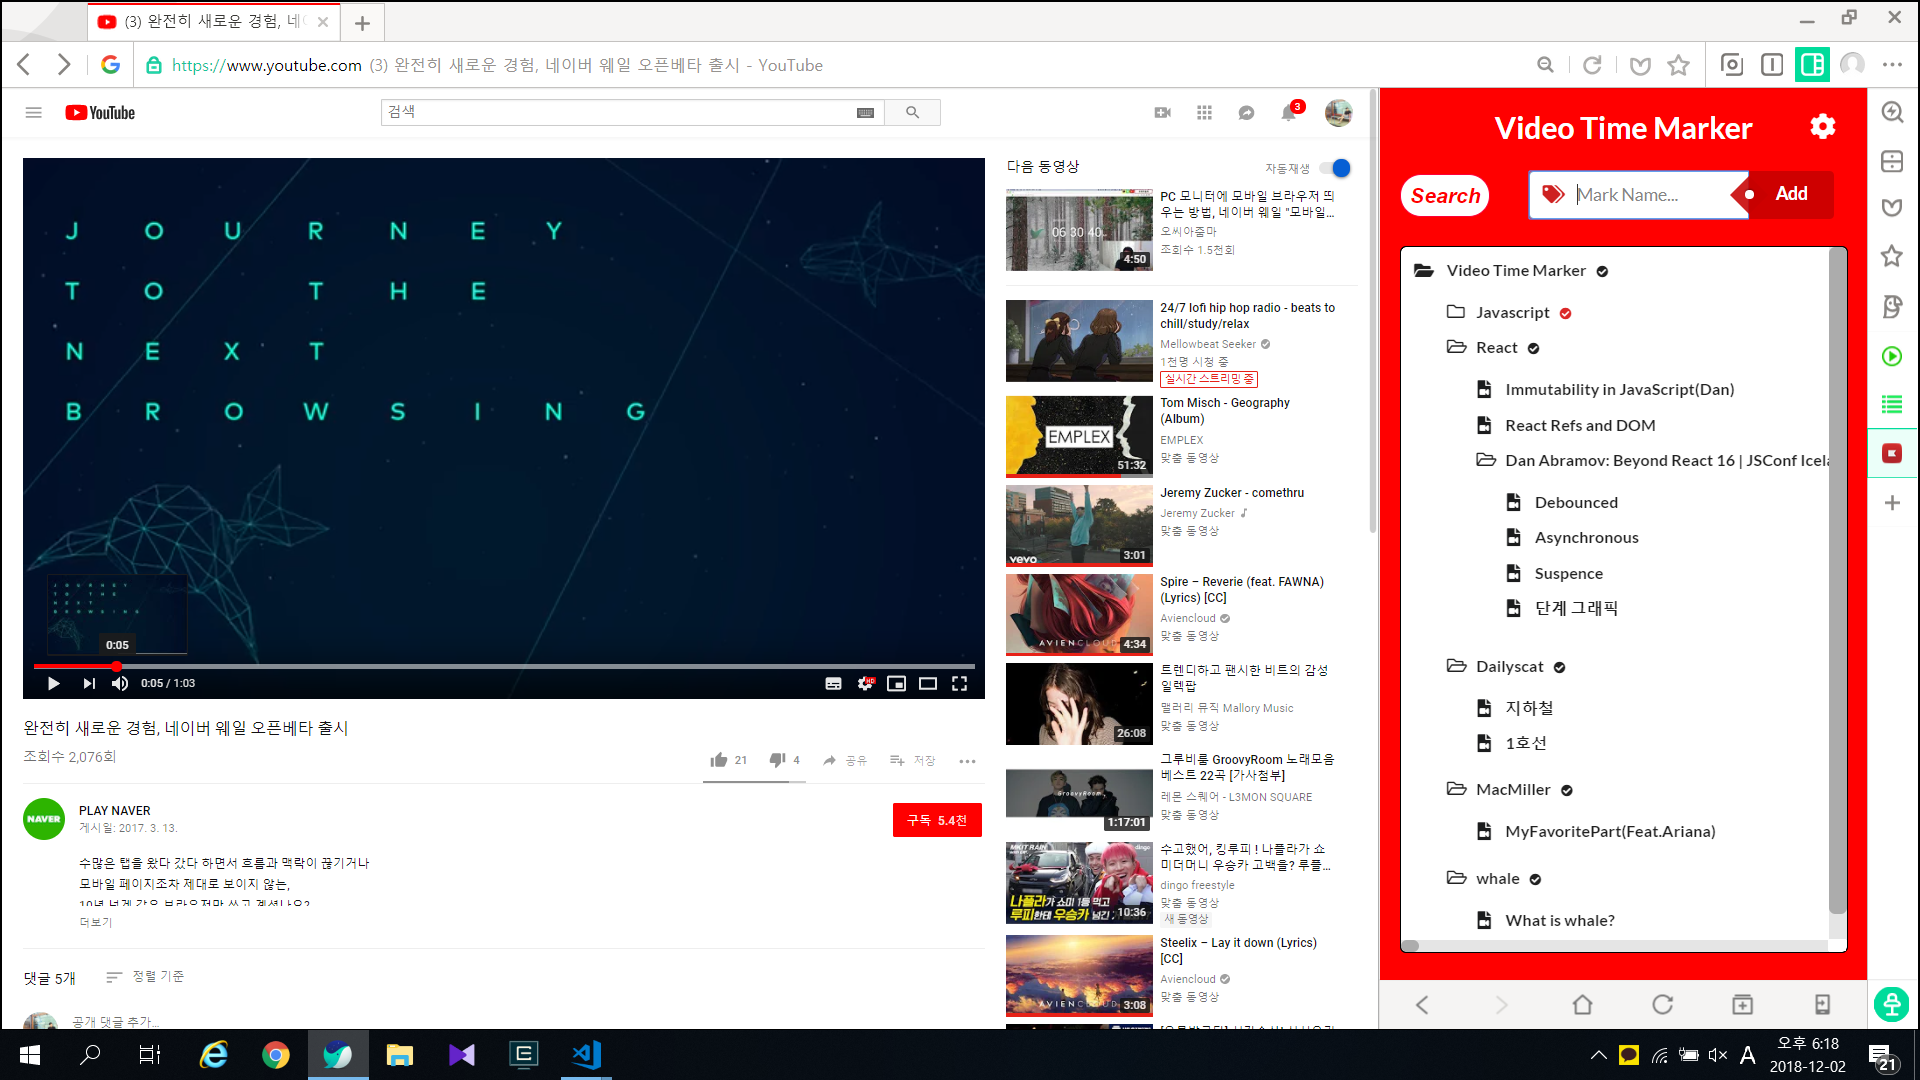
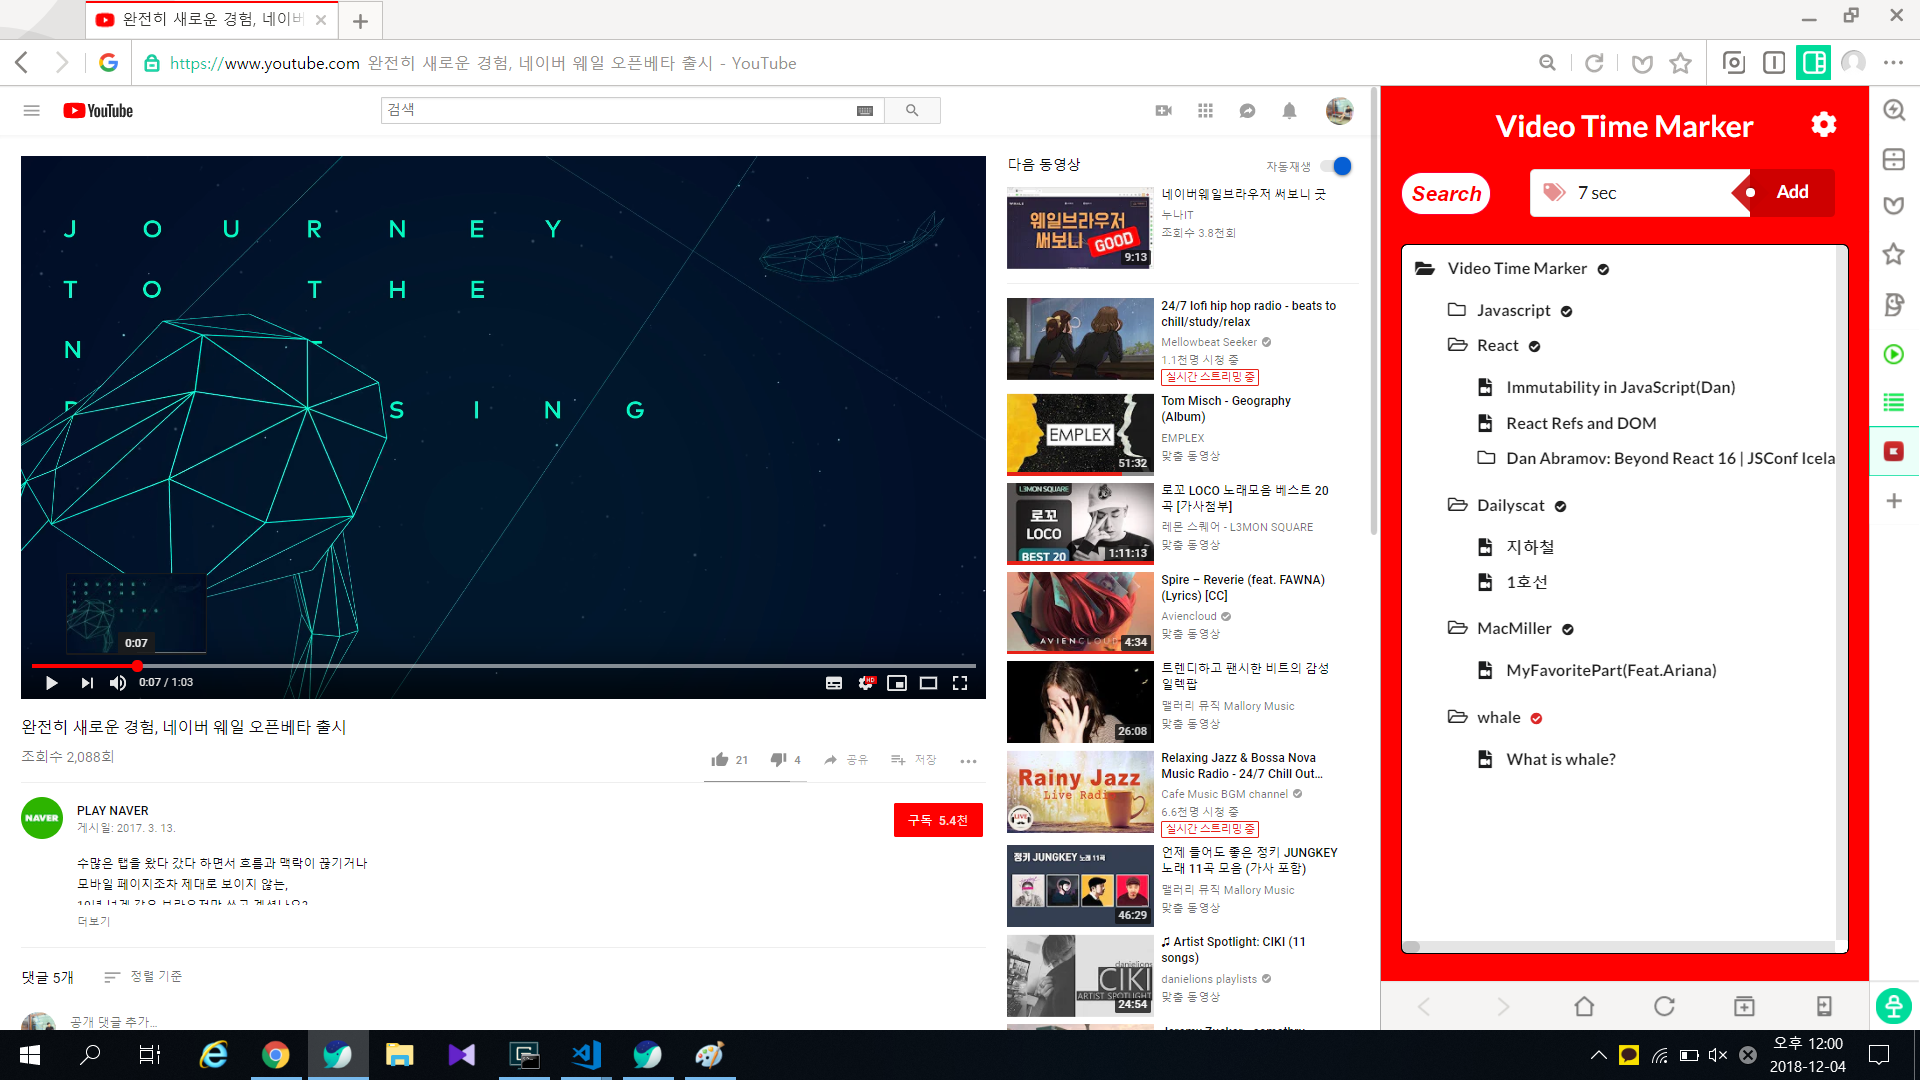
input에 시간을 표시하는 로직을 새로 짜서 hour, minute, sec 로 나누어 표시하게 만듬

diff --git a/src/components/URLInput/URLInput.js b/src/components/URLInput/URLInput.js
@@ -65,8 +65,21 @@ class URLInput extends Component {
                 if(isNaN(Number(state.markName.split(" ")[0]))) {
                     return "";
                 } else {
+                    let parseHour = parseInt(props.currentTime / 3600);
+                    let hour = parseHour >= 10 ? parseHour : `0${ parseHour }`;
+                    let parseMinute = parseInt((props.currentTime - (hour * 3600)) / 60);
+                    let minute = parseMinute >= 10 ? parseMinute : `0${ parseMinute }` ;
+                    let parseSec = parseInt((props.currentTime - (hour * 3600)) % 60);
+                    let sec = parseSec >= 10 ? parseSec : `0${ parseSec }` ;
+                    let total;
+
+                    if(Number(hour)){
+                        total = `${hour} : ${minute} : ${sec}`
+                    }else{
+                        total = `${minute} : ${sec}`
+                    }
                     return {
-                        markName: props.currentTime + " sec",
+                        markName: total,
                         prevCurrentTime: props.currentTime,
                     }
                 }

diff --git a/src/components/Post/Post.js b/src/components/Post/Post.js
@@ -240,7 +240,7 @@ class Post extends Component {
                     <List.Icon name='folder open' />
                     <List.Content>
                         <input  className = "editInput none" defaultValue = {this.props.defaultFolderName} onKeyDown = {this.pushEnterFunction.bind(this)} onBlur = {this.inputBlur.bind(this)} autoFocus/> 
-                        <List.Header className = "default" data-id = {"top"} onClick = {this.hideList.bind(this)} onMouseEnter = {this.onHover.bind(this)} onMouseLeave = {this.offHover.bind(this)} >
+                        <List.Header className = "default" data-id = "top" onClick = {this.hideList.bind(this)} onMouseEnter = {this.onHover.bind(this)} onMouseLeave = {this.offHover.bind(this)} >
                             {this.props.defaultFolderName}
                             {this.props.selectedFolderId === this.state.defaultSelected ? <Icon color = "red" name = "check circle" size= "small" data-id = "top"/> : <Icon name = "check circle" size= "small" data-id = "top"/>}
                                 <Fragment>                           

diff --git a/src/App.js b/src/App.js
@@ -300,7 +300,7 @@ class App extends Component {
       chromeService.get(result => { 
         const fileCopy = Object.assign({}, this.state.file);   
         fileCopy.id = Date.now();
-        fileCopy.name = name;
+        fileCopy.name = `${name}`;
         fileCopy.url = `https://youtu.be/`+ this.state.videoId + `?t=`+ this.state.currentTime;  
         if(currentFolderId === "top"){
           result.children.push(fileCopy)
